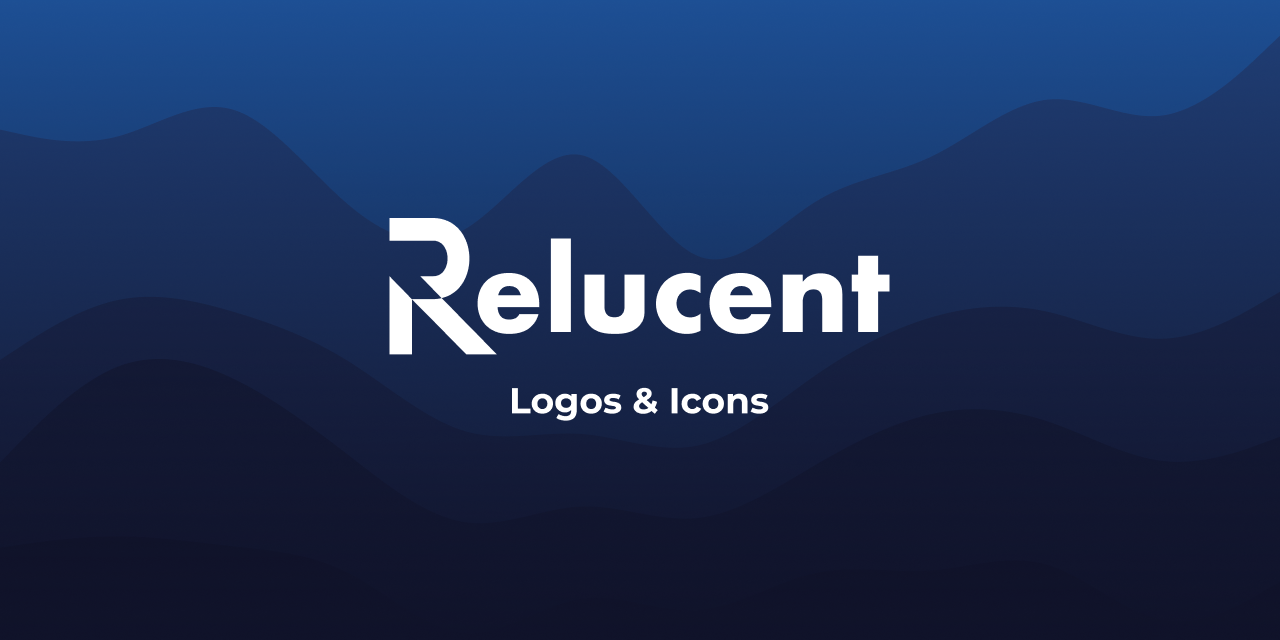
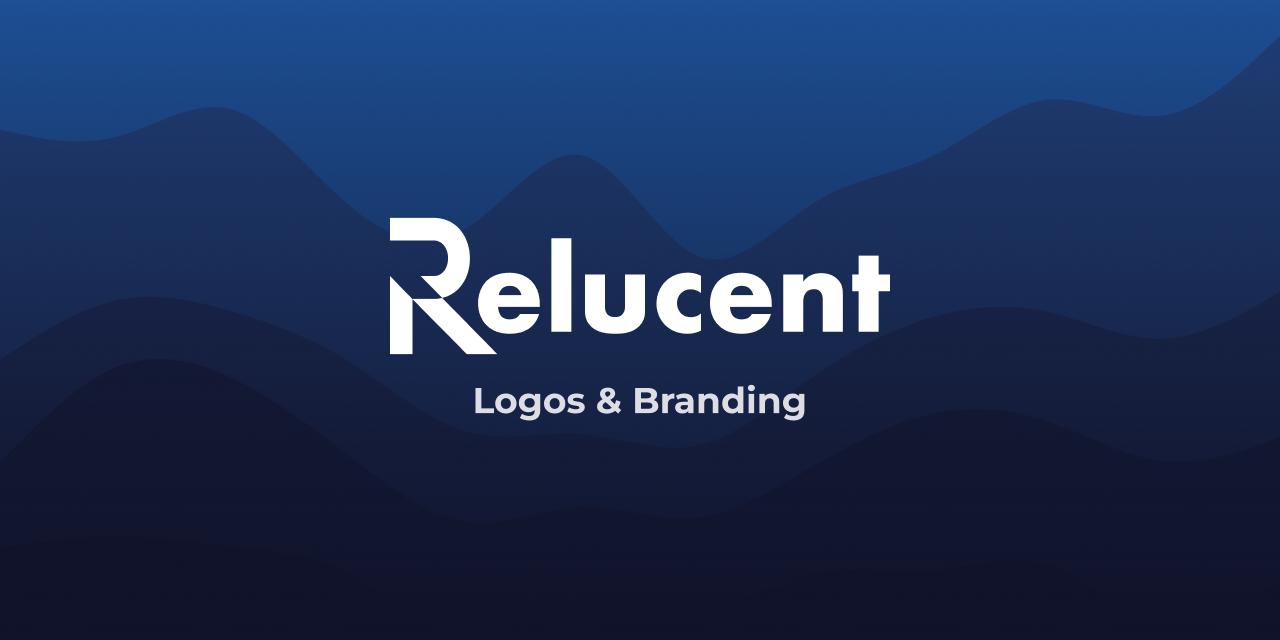
docs: update cover image

diff --git a/README.md b/README.md
@@ -1,8 +1,8 @@
-# Relucent Logos & Icons
+# Relucent Logos & Branding
 
-![Relucent Logos & Icons Cover Image](cover.png)
+![Relucent Logos & Branding Cover Image](cover.png)
 
-Logos & icons for Relucent.
+Logos & Branding Information for Relucent.
 
 [![@relucent.dev/logo version]][npmjs-package]
 
